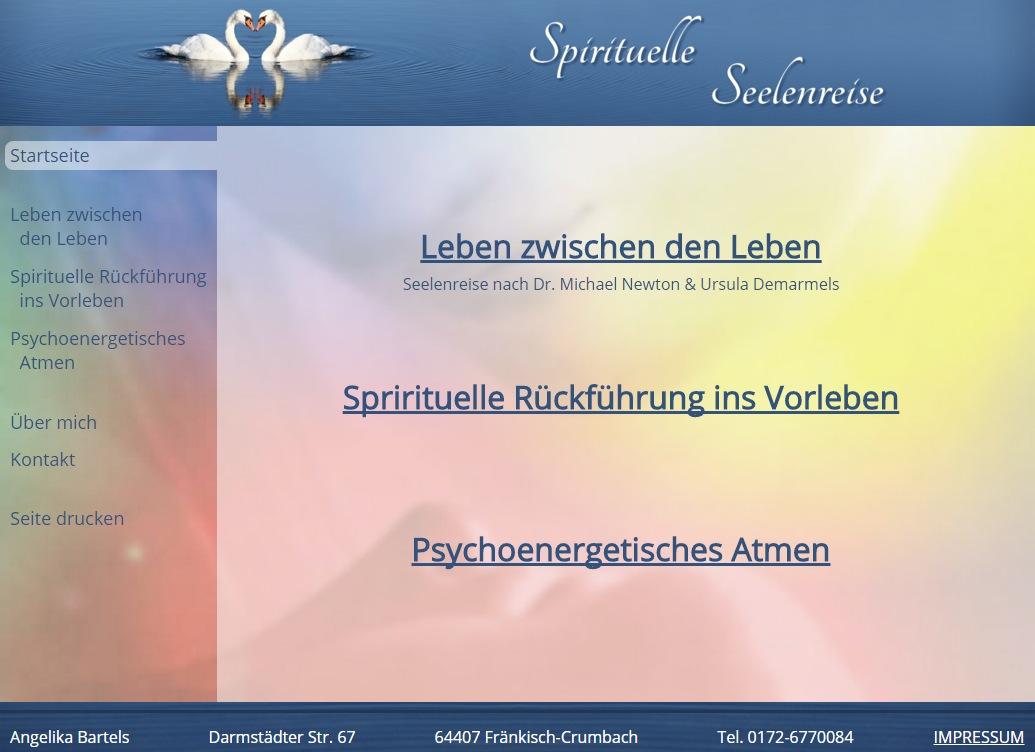
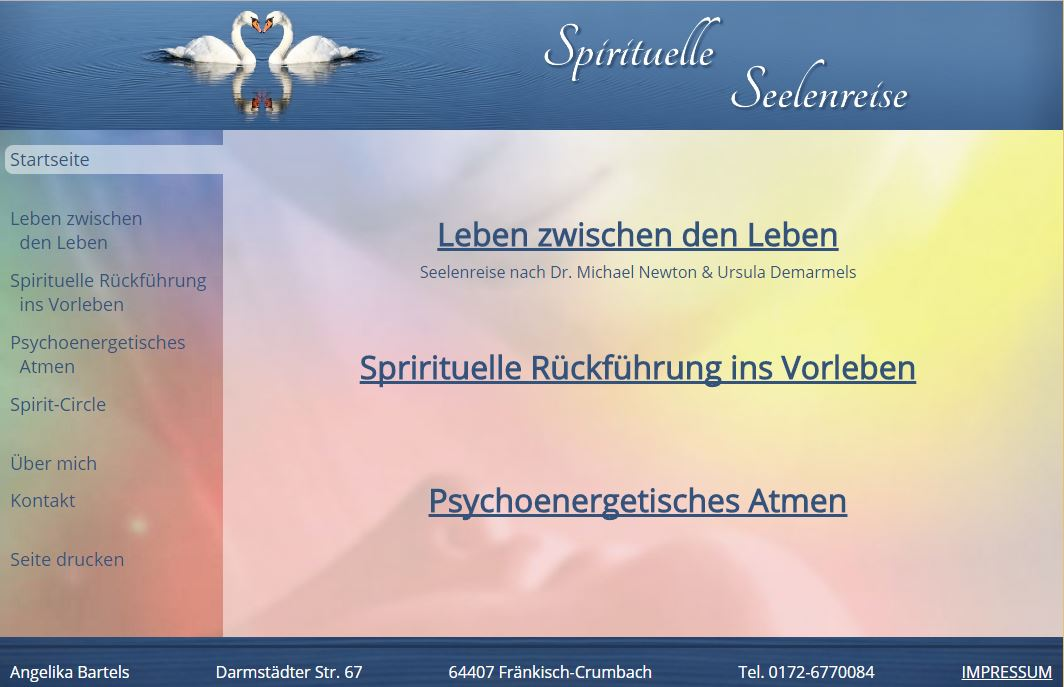
AB: Added spirit-circle.eu

diff --git a/angelikabartels/web/subpages/spiritcircle.html b/angelikabartels/web/subpages/spiritcircle.html
@@ -1,0 +1,35 @@
+<!DOCTYPE html>
+<html lang="de">
+<head>
+<title>Psychoenergetisches Atmen</title>
+<meta http-equiv="Content-Type" content="text/html; charset=utf-8" />
+<link href="../stylesheets/styles.css" rel="Stylesheet" type="text/css">
+<script type="text/javascript" src="../javascript/jquery-1.11.1.min.js"></script>
+<script type="text/javascript" src="../javascript/subpage.js"></script>
+</head>
+
+<body id="spiritcircle" class="mainpage">
+	<div id="text">
+		<h1>Spirit Circle</h1>
+		<p class="subtitle">Ein Netzwerk von spirituell arbeitenden Therapeuten aus Deutschland, Schweiz und Österreich</p>
+
+		<p>
+			<img src="../img/buddha.jpg" title="&copy;Claudia Mächtle">Claudia Mächtle, Berlin<br>
+			<a href="http://www.claudia-maechtle.de/" target="_blank">www.claudia-maechtle.de</a>
+		</p>
+
+		<p>
+			Claudia Baecker, München<br>
+			<a href="http://www.reinkarnations-therapie.info" target="_blank">www.reinkarnations-therapie.info</a>
+			<br>
+			<a href="http://www.cb-hypnose.de" target="_blank">www.cb-hypnose.de</a>
+		</p>
+
+		<hr class="footer">
+<!-- DO NOT AUTO-FORMAT!!! -->
+		<p class="footer verse">Erkenne dich selbst -
+und du wirst das Universum und die Götter erkennen.</p>
+		<p class="footer secondary">Weisheit aus dem Tempel zu Delphi</p>
+	</div>
+</body>
+</html>

diff --git a/angelikabartels/web/menu_dropdown.html b/angelikabartels/web/menu_dropdown.html
@@ -17,6 +17,7 @@
 			<li><a href="subpages/rueckfuehrung.html" target="main" id="rueckfuehrung">Spirituelle Rückführung ins
 					Vorleben</a></li>
 			<li><a href="subpages/pea.html" target="main" id="pea">Psychoenergetisches Atmen</a></li>
+			<li><a href="subpages/spiritcircle.html" target="main" id="spiritcircle">Spirit Circle</a></li>
 			<li><a href="subpages/uebermich.html" target="main" id="uebermich">Über mich</a></li>
 			<li><a href="subpages/kontakt.html" target="main" id="kontakt">Kontakt</a></li>
 			<li><a href="javascript:showImpressum()" id="impressum">Impressum</a></li>

diff --git a/angelikabartels/web/subpages/impressum.html b/angelikabartels/web/subpages/impressum.html
@@ -38,8 +38,12 @@ Darmstädter Str. 67
 		</tr>
 		<tr>
 			<td>Bildreferenz:</td>
-			<td>Die Bilder sind eine freundliche Leihgabe von ASTRODATA AG Astro-Analysen, wie Seelenpartner und Die
-				3-Jahres Analysen und Bücherverlag: wie Dr. Michael Newton.</td>
+			<td>Die Bilder sind eine freundliche Leihgabe von
+				<ul>
+					<li>ASTRODATA AG Astro-Analysen, wie Seelenpartner und Die 3-Jahres Analysen</li>
+					<li>Bücherverlag, Dr. Michael Newton</li>
+					<li>Claudia Mächtle</li>
+				</ul>
 		</tr>
 		<tr>
 			<td width="20%">Rechtshinweis:</td>

diff --git a/angelikabartels/web/menu_left.html b/angelikabartels/web/menu_left.html
@@ -17,6 +17,8 @@
 	</a>
 	<a href="subpages/pea.html" target="main" id="pea" class="twoline">Psychoenergetisches<br>&nbsp;&nbsp;Atmen
 	</a>
+	<a href="subpages/spiritcircle.html" target="main" id="spiritcircle">Spirit-Circle
+	</a>
 	<hr>
 	<a href="subpages/uebermich.html" target="main" id="uebermich">Über mich</a>
 	<a href="subpages/kontakt.html" target="main" id="kontakt">Kontakt</a>

diff --git a/angelikabartels/web/subpages/allcontent.html b/angelikabartels/web/subpages/allcontent.html
@@ -23,6 +23,8 @@ Leben zwischen den Leben">
 	<hr class="newpage">
 	<div path="pea.html" class='load'></div>
 	<hr class="newpage">
+	<div path="spiritcircle.html" class='load'></div>
+	<hr class="newpage">
 	<div path="uebermich.html" class='load'></div>
 	<hr class="newpage">
 	<div path="kontakt.html" class='load'></div>

diff --git a/angelikabartels/web/javascript/menudropdown.js b/angelikabartels/web/javascript/menudropdown.js
@@ -2,8 +2,8 @@ var zoomFactor = 1;
 
 function showMenu() {
 	var frame = $('#menudropdownframe', parent.document);
-	frame.css('width', 305 * zoomFactor);
-	frame.css('height', 305 * zoomFactor);
+	frame.css('width', 335 * zoomFactor);
+	frame.css('height', 335 * zoomFactor);
 
 	$('#menuitems').slideDown();
 }

diff --git a/angelikabartels/web/javascript/subpage.js b/angelikabartels/web/javascript/subpage.js
@@ -25,6 +25,14 @@ $(document).ready(function() {
 		frame = top.menu.document;
 		markChosen(frame, myId);
 	}
+
+	$('img').bind('contextmenu', function() {
+		$title = $(this).attr('title');
+		if ($title) {
+			alert($title);
+		}
+		return false;
+	})
 });
 
 // Google Analytics tracking
